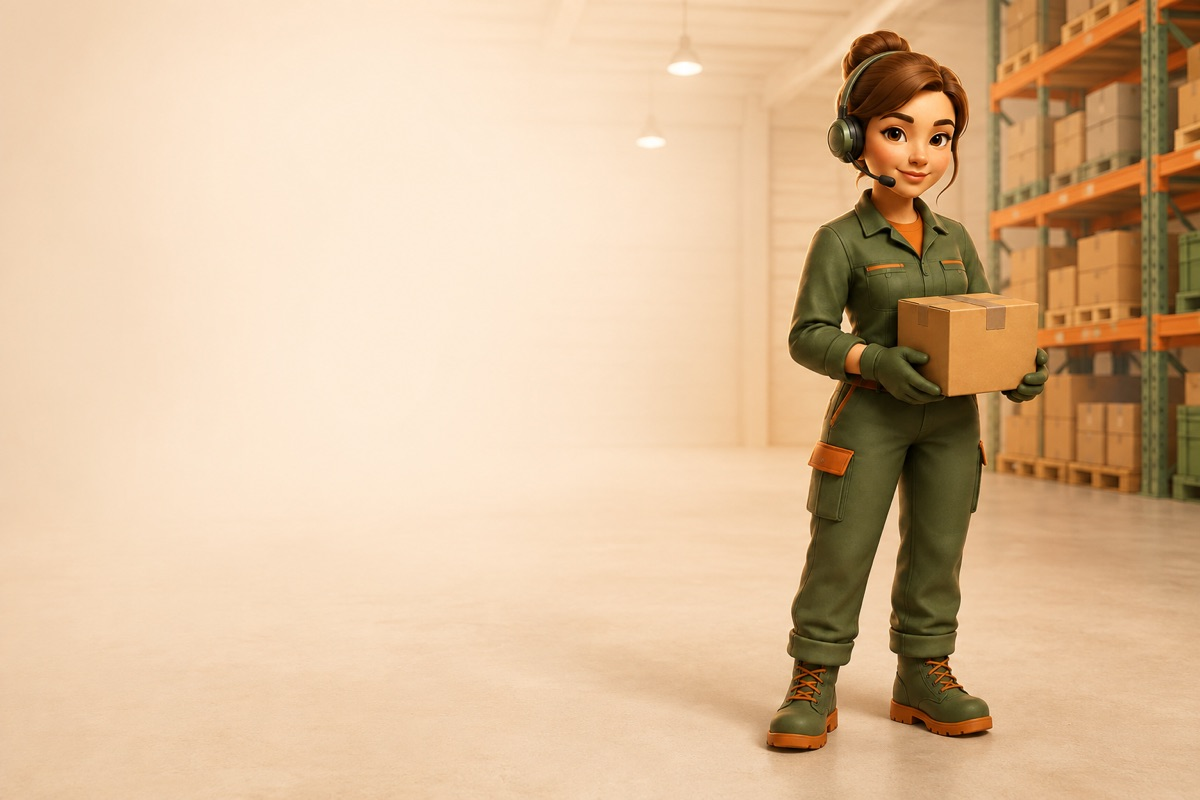
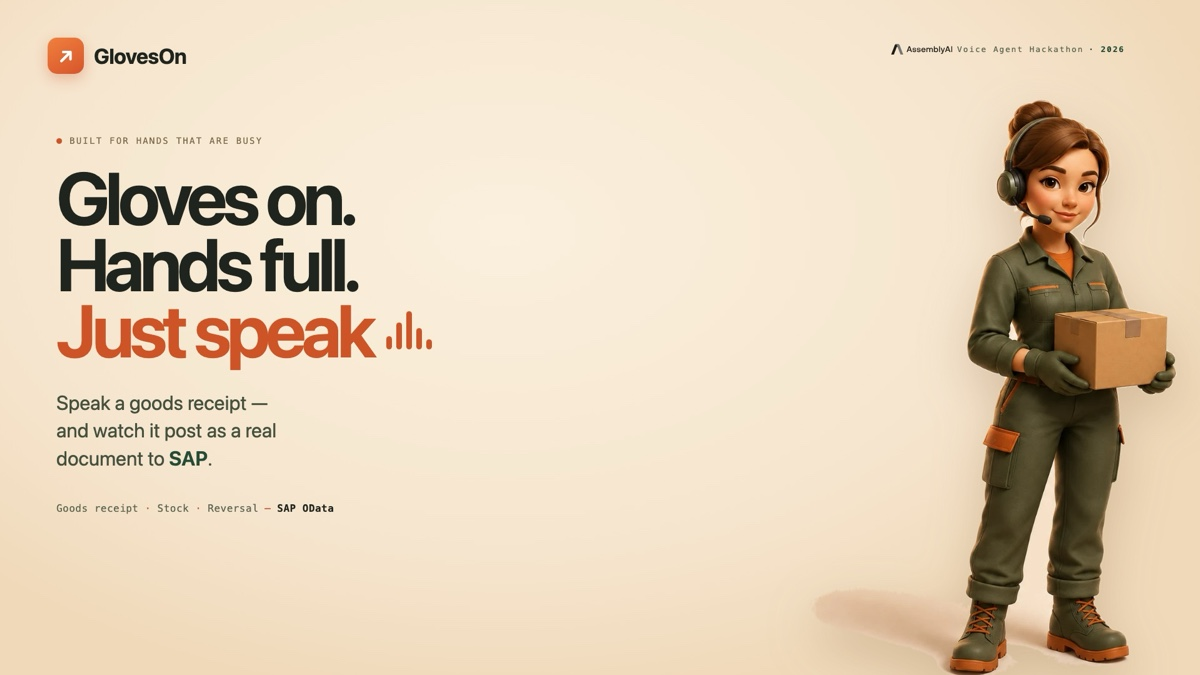
Make the share card the cover, not a bare render
The first og image was the hero scene untouched: an empty warehouse with the
worker at the right edge and nothing in the frame saying what the product is.
In a WhatsApp or Slack card that read as a random 3D render. The card is now
the 16:9 submission cover — headline, figure, SAP line and the AssemblyAI
badge baked into the pixels — resized to 1200x675, with a ?v=2 on the image
URL because crawlers cache by exact URL. WhatsApp additionally caches per
page URL, so an already-shared link may need one share with a query string
before the new card shows.

diff --git a/web/index.html b/web/index.html
@@ -7,15 +7,19 @@
 <meta name="description" content="A voice-operated warehouse receiving demo. Look up stock, confirm a goods receipt, and trace every material document with GlovesOn." />
 <!-- Share cards. The link is pasted into Devpost, Slack and chat before anyone
      opens it, and without these the preview is a bare URL. og:image is absolute
-     because several crawlers refuse relative image URLs; the deployment address
-     is fixed at gloveson.vercel.app. -->
+     because several crawlers refuse relative image URLs. The image is the 16:9
+     submission cover — headline, figure and badge baked in — because the first
+     card was a bare hero render: an empty warehouse with the worker at the
+     edge and nothing saying what this is. ?v=2 busts crawler caches keyed on
+     the old image URL; WhatsApp also caches per PAGE url, so a fresh scrape
+     may need the link shared once with a query string. -->
 <meta property="og:type" content="website" />
 <meta property="og:url" content="https://gloveson.vercel.app/" />
 <meta property="og:title" content="GlovesOn — Your hands work. Your voice handles the rest." />
 <meta property="og:description" content="Speak a goods receipt and watch the material document appear. Voice by AssemblyAI, written through SAP OData." />
-<meta property="og:image" content="https://gloveson.vercel.app/assets/og-card.jpg" />
+<meta property="og:image" content="https://gloveson.vercel.app/assets/og-card.jpg?v=2" />
 <meta property="og:image:width" content="1200" />
-<meta property="og:image:height" content="800" />
+<meta property="og:image:height" content="675" />
 <meta property="og:image:alt" content="A warehouse worker wearing gloves and a headset carries a box on the receiving floor." />
 <meta name="twitter:card" content="summary_large_image" />
 <style>
